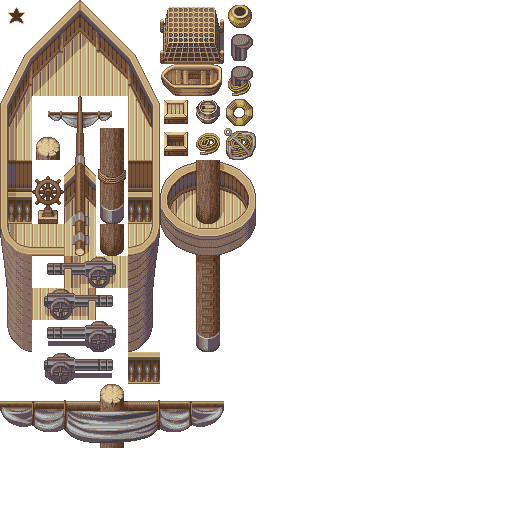
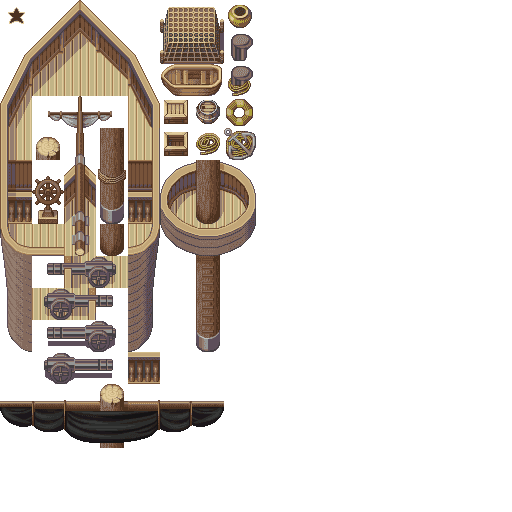
Added pirate boat

Changed region(s): [[0.0, 0.7812, 0.4375, 0.875]]

diff --git a/src/assets/jack-sparrow-flag.tsx b/src/assets/jack-sparrow-flag.tsx
@@ -1,0 +1,4 @@
+<?xml version="1.0" encoding="UTF-8"?>
+<tileset version="1.8" tiledversion="1.8.2" name="jack-sparrow-flag" tilewidth="32" tileheight="32" tilecount="9" columns="3">
+ <image source="../../jack-sparrow-flag.png" width="96" height="96"/>
+</tileset>
